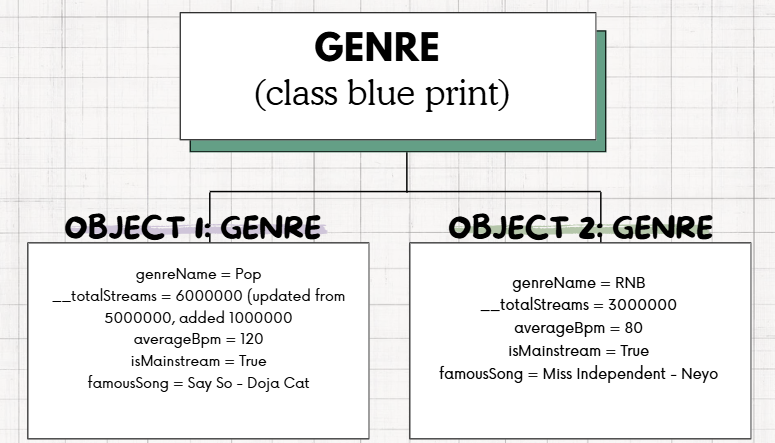
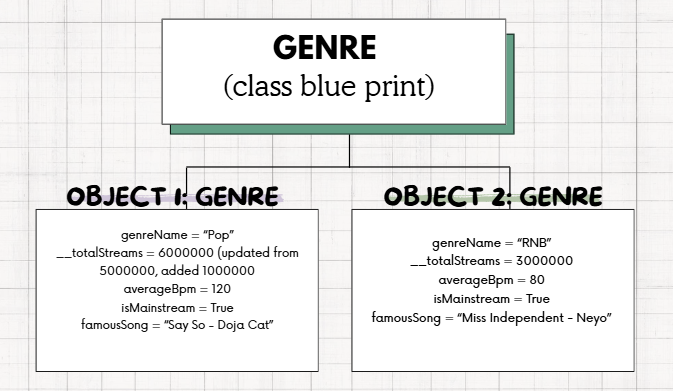
q1

diff --git a/q1/classAttributesMethods.md b/q1/classAttributesMethods.md
@@ -44,7 +44,6 @@ When Object 1 and Object 2 were created, the computer built two completely diffe
 ### What is the difference between your class diagram and your object diagram?
 The class diagram acts as an abstract blueprint that defines the general properties, data types, visibility (+/-), and methods available to all Genre objects. Simply, it is just basically a list of rules
 or a blank template. It shows what every single object created from it is allowed to have. Symbols for visibility are utilized to indicate whether it is private (-) or public (+). In contrast, the
-object diagram shows concrete instances (Object 1 and Object 2) at a specific point in time after code execution, displaying actual stored values rather than data definitions. I like to think of it as
-the mosaic of the real data at a snapshot moment or exact moment while the program is embarking on its odyssey. It shows real names and real numbers instead of data types. For instance, my class diagram defines the strict rules and data types for the Genre class, showing
-placeholders like genreName: string or isMainstream: boolean along with access symbols like public (+) and private (-). It also maps out the action methods the engraved objects can perform, such as updateStreamCount() and getTotalStreams(). In contrast, the object diagram ignores these data types, visibility symbols, and methods entirely to focus solely on the state of instances like Objject 1 and Object 2 at a specific moment during runtime. Instead of
+object diagram shows concrete instances (Object 1 and Object 2) at a specific point in time after code execution, displaying actual stored values rather than data definitions. I like to think of it as the mosaic of the real data at a snapshot moment or exact moment while the program is embarking on its odyssey. It shows real names and real numbers instead of data types. For instance, my class diagram defines the strict rules and data types for the Genre class, showing
+placeholders like genreName: string or isMainstream: boolean along with access symbols like public (+) and private (-). It also maps out the action methods the engraved objects can perform, such as updateStreamCount() and getTotalStreams(). In contrast, the object diagram ignores these data types, visibility symbols, and methods entirely to focus solely on the state of instances like Object 1 and Object 2 at a specific moment during runtime. Instead of
 defining what the variables should be, the object diagram displays the actual data values stored in memory, showing real assignments such as genreName = "Pop" or totalStreams = 5000000.

diff --git a/README.md b/README.md
@@ -14,4 +14,4 @@
 * [OOP Act](q1/classObjectUML.md)
 ### OOP Class Diagram
 ![Class Diagram](q1/images/classDiagram.png)
-* [Class Attributes and Methods](q1/classAttributesMethods.md)
+* [OOP PART 2: Class Attributes and Methods](q1/classAttributesMethods.md)
